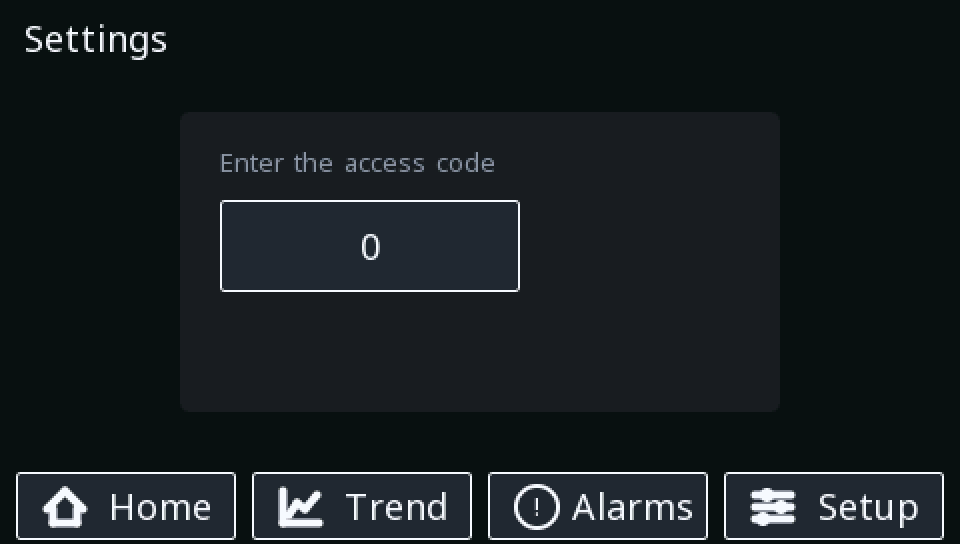
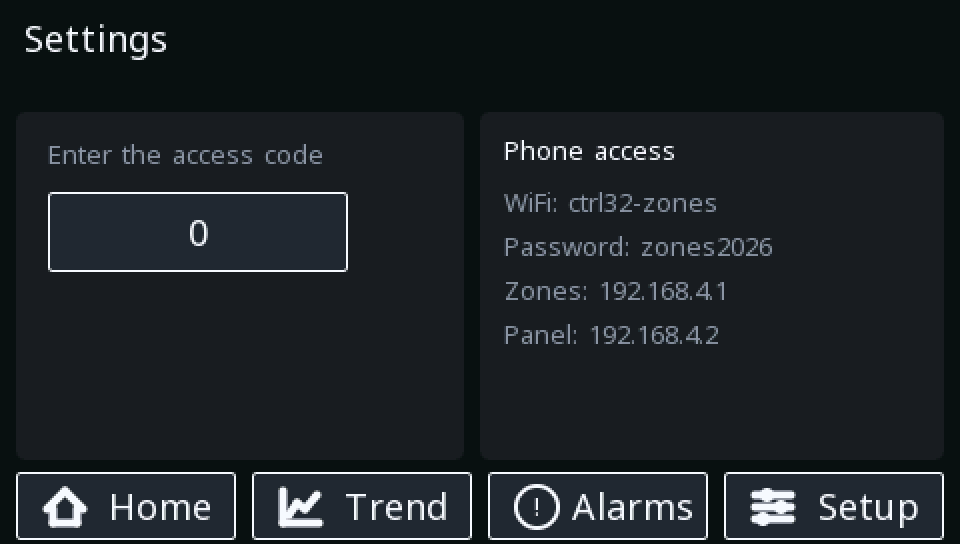
the manual learns the WiFi password and the connection card
The phone-view chapter names the password next to the network, the
panel's address is stated outright (first lease, printed on the
access-code page), and the login screenshots show the new Phone
access card on the glass and the phone alike.

diff --git a/docs/three-zone-thermostat.md b/docs/three-zone-thermostat.md
@@ -201,11 +201,16 @@ sanely again.
 
 ### The access code
 
-![The access-code page: the code field and the page bar, with no way in](img/thermostat-login.png)
+![The access-code page: the code field on the left, the phone connection details on the right](img/thermostat-login.png)
 
-The Setup button leads here, never straight to the settings. The
-operator types the access code — the keypad opens on touch — and
-**only the right code makes the way in appear**:
+The Setup button leads here, never straight to the settings — and
+the page doubles as the **connection notice**: the *Phone access*
+card spells out the pair's WiFi name and password and both
+addresses, because the person standing at the panel is exactly the
+one who wants to join with a phone.
+
+The operator types the access code — the keypad opens on touch —
+and **only the right code makes the way in appear**:
 
 ![The access-code page after the right code: the Open settings button has appeared](img/thermostat-login-open.png)
 
@@ -245,14 +250,17 @@ is not worn out by a spinning knob).
 ## The phone view
 
 Both boards serve a WEBview over the pair's own network. Join the
-WiFi `ctrl32-zones` with a phone and open:
+WiFi **`ctrl32-zones`** (password as delivered: **`zones2026`** —
+both are printed on the panel's access-code page, and both change in
+the project files) and open:
 
 - **192.168.4.1** — the zone board: the three temperatures, the real
   output states and the alarm table, with a Link lamp blinking with
   the *panel's* heartbeat. This view works even when the panel is
   down — which is precisely when it is most useful.
-- the panel's address (the device scanner shows it, see
-  [Finding your boards](find-devices.md)) — the panel's **full
+- **192.168.4.2** — the panel (as the network's first client it
+  takes the first lease; the access-code page prints it, and the
+  [device scanner](find-devices.md) confirms it): the panel's **full
   visualization, laid out for a phone**. This is not a summary of
   the glass; it is the same five pages, described below.
 
